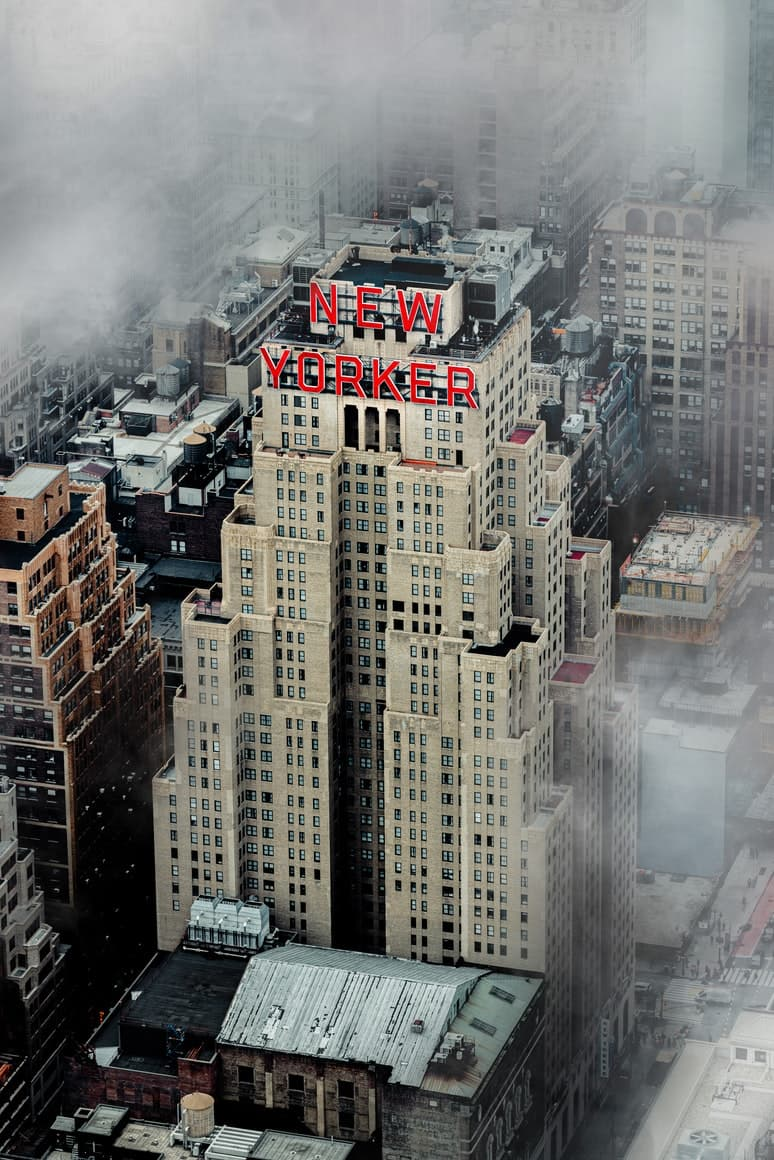
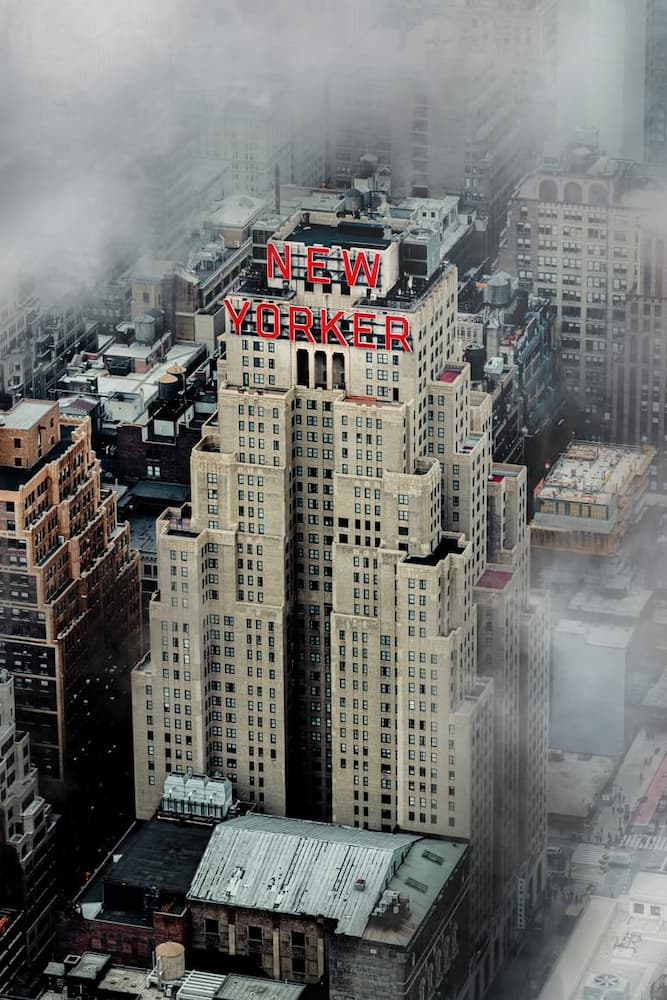
optimize image size

Changed region(s): [[0.3298, 0.248, 0.6297, 0.372]]

diff --git a/src/components/image-color.jsx b/src/components/image-color.jsx
@@ -47,7 +47,7 @@ export default function ImageUpload() {
           {imgUrl && (
             <img
               src={imgUrl}
-              width='1000'
+              width='667'
               height='1000'
               alt="Image uploaded by a user"
               className="object-cover object-top aspect-square"
@@ -77,7 +77,7 @@ export default function ImageUpload() {
             className="font-bold underline cursor-pointer"
             onClick={() =>
               setImgUrl(
-                `https://source.unsplash.com/random/${Math.floor(
+                `https://source.unsplash.com/random/?width=667&height=1000&key${Math.floor(
                   Math.random() * 100
                 )}`
               )
